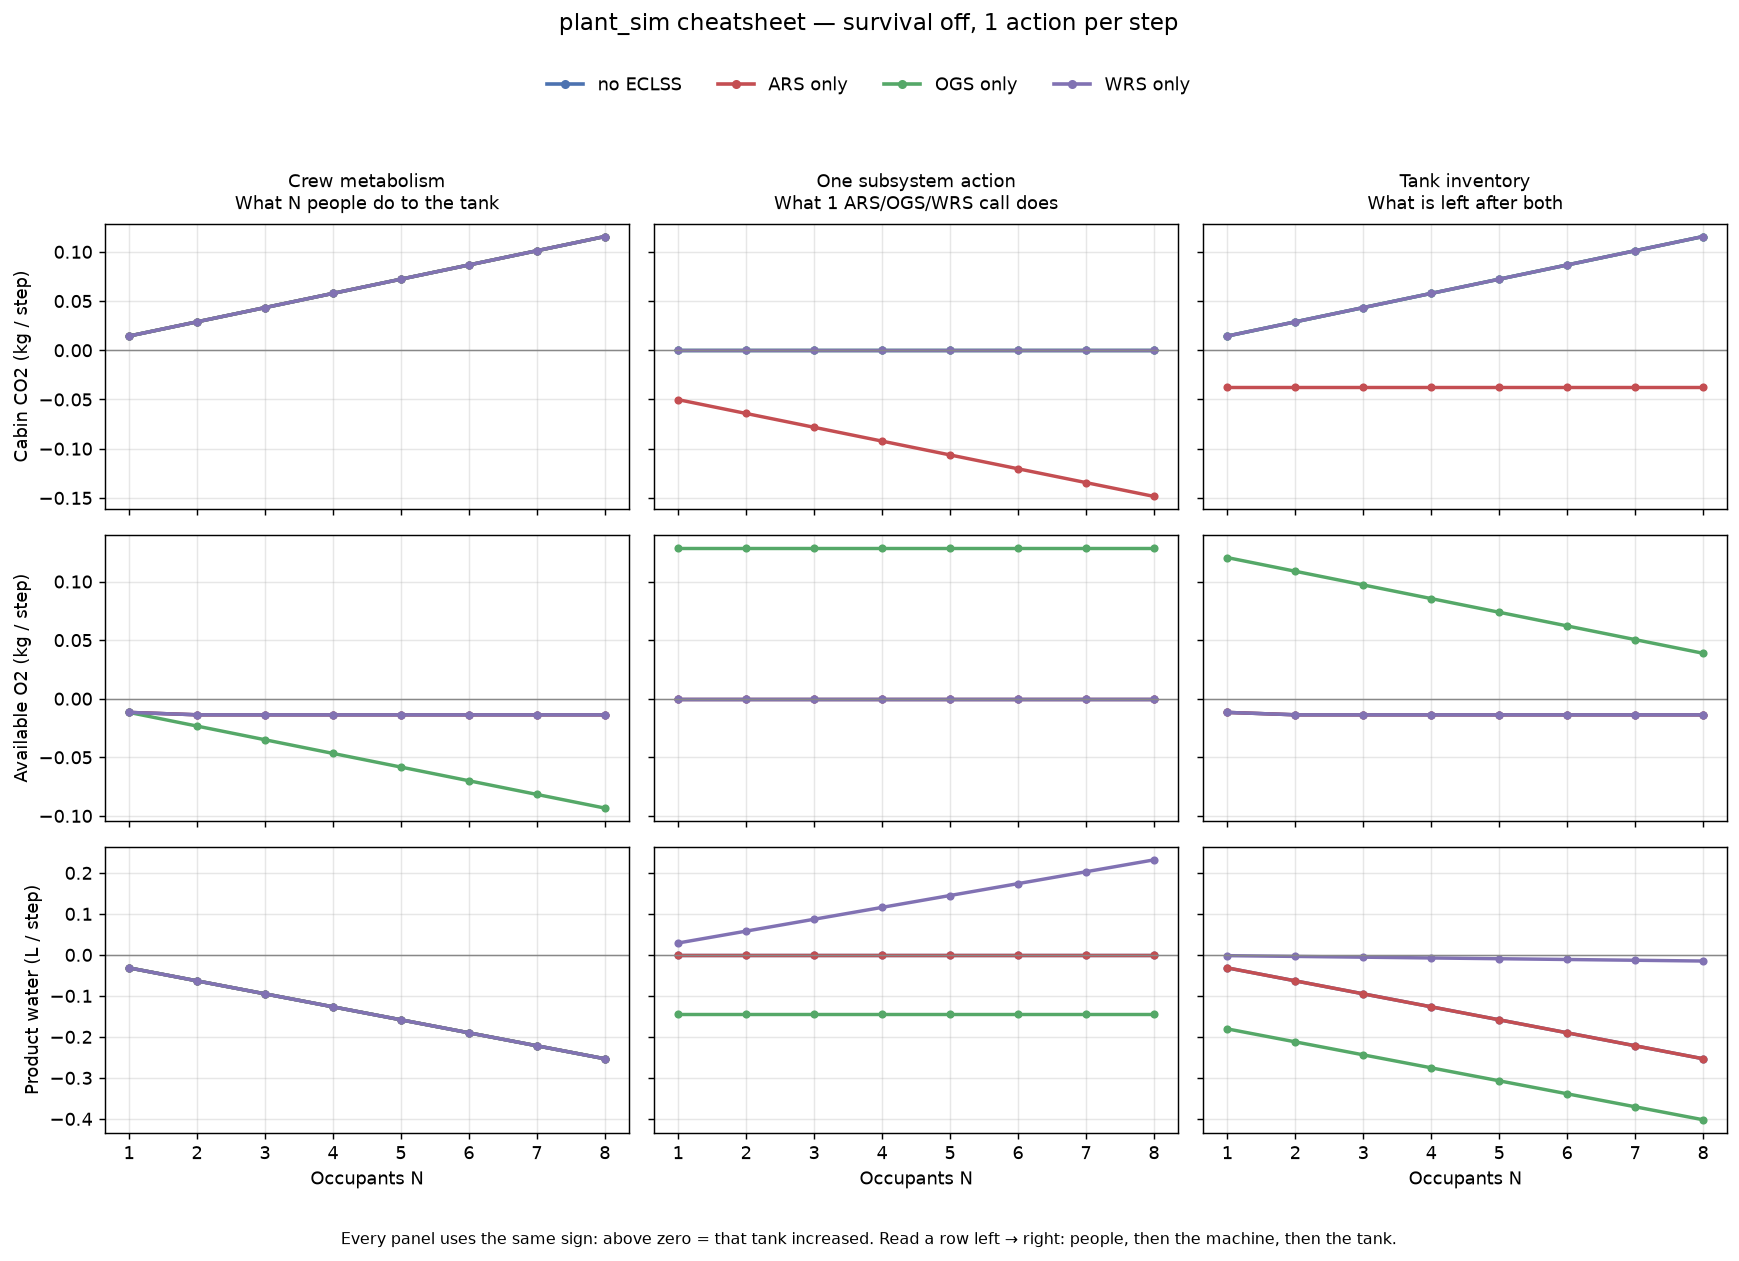
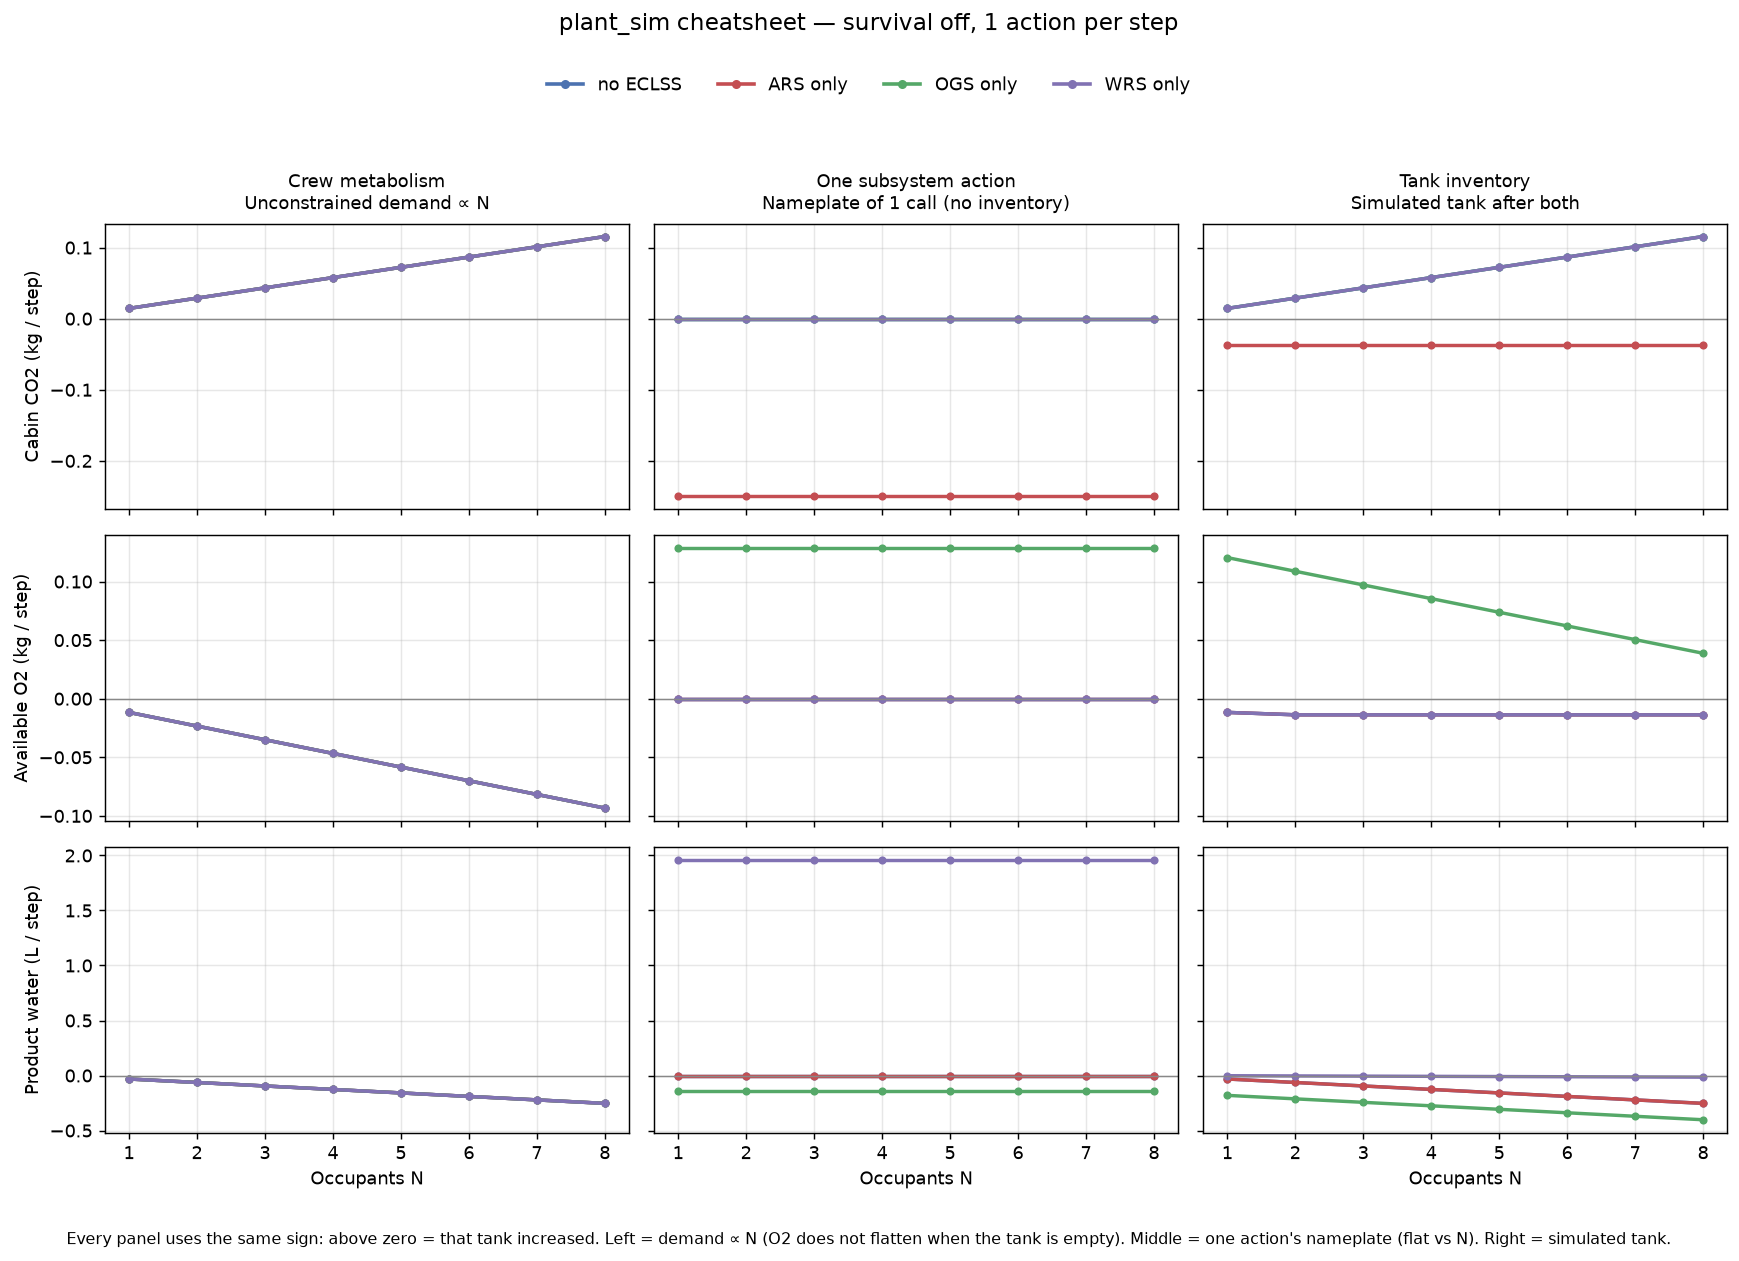
Plot cheatsheet demand ∝ N and nameplate ops independent of N.
O2 metabolism flattened for N≥2 because the 0.48 kg tank emptied;
the left column now uses unconstrained demand. The middle column uses
ARS/OGS/WRS nameplate (inventory ignored) so one action is flat vs N.
Tank-limited consumption stays in the right column.

diff --git a/src/tools/plant_sim_ops_cheatsheet.py b/src/tools/plant_sim_ops_cheatsheet.py
@@ -3,6 +3,11 @@
 This is not the Streamlit dashboard. It sweeps occupant count N with survival
 disabled so N stays an independent variable.
 
+Left column is **unconstrained demand** (∝ N), not tank-limited consumption —
+otherwise O2 metabolism flattens once the 0.48 kg tank is empty.
+Middle column is **nameplate of one action** (inventory ignored), so ARS/OGS/WRS
+are flat vs N. The right column is the simulated tank, where those limits live.
+
 Usage::
 
     python3 -m tools.plant_sim_ops_cheatsheet --n-max 8 --steps 36
@@ -21,7 +26,8 @@ import yaml
 from matplotlib.lines import Line2D
 
 from environment.ssos.eclss.plant_sim.config import PlantSimConfig
-from environment.ssos.eclss.plant_sim.model import PlantModel
+from environment.ssos.eclss.plant_sim.model import PlantModel, per_interval
+from environment.ssos.eclss.plant_sim.stoichiometry import WATER_PER_O2
 from scenario.runner import agents_config_path, scenario_config_path
 
 MODES = ("none", "ars", "ogs", "wrs")
@@ -46,6 +52,14 @@ class CheatsheetRow:
     water_metabolism_l: float
     water_ops_l: float
     water_net_l: float
+    # Per-step unconstrained demand / nameplate (not divided in per_step()).
+    co2_demand_kg: float
+    o2_demand_kg: float
+    water_demand_l: float
+    ars_nameplate_kg: float
+    ogs_nameplate_o2_kg: float
+    ogs_nameplate_water_l: float
+    wrs_nameplate_l: float
 
     def per_step(self) -> "CheatsheetRow":
         m = max(1, self.metabolism_steps)
@@ -64,6 +78,13 @@ class CheatsheetRow:
             water_metabolism_l=self.water_metabolism_l / m,
             water_ops_l=self.water_ops_l / ops,
             water_net_l=self.water_net_l / m,
+            co2_demand_kg=self.co2_demand_kg,
+            o2_demand_kg=self.o2_demand_kg,
+            water_demand_l=self.water_demand_l,
+            ars_nameplate_kg=self.ars_nameplate_kg,
+            ogs_nameplate_o2_kg=self.ogs_nameplate_o2_kg,
+            ogs_nameplate_water_l=self.ogs_nameplate_water_l,
+            wrs_nameplate_l=self.wrs_nameplate_l,
         )
 
 
@@ -75,6 +96,41 @@ def load_ssos_yaml() -> tuple[Dict[str, Any], Dict[str, Any]]:
 
 def _policy_goals(agents: Mapping[str, Any]) -> Dict[str, Any]:
     return dict((agents.get("policy") or {}))
+
+
+def metabolism_demand_per_step(n: int, plant: PlantSimConfig) -> tuple[float, float, float]:
+    """Unconstrained crew demand this interval: (o2_kg, co2_kg, water_l). ∝ N."""
+    factor = int(n) * plant.activity_factor
+    o2 = per_interval(plant.o2_kg_day_person, plant.step_seconds) * factor
+    co2 = per_interval(plant.co2_kg_day_person, plant.step_seconds) * factor
+    water = per_interval(plant.potable_water_kg_day_person, plant.step_seconds) * factor
+    return o2, co2, water
+
+
+def ars_nameplate_kg(goal_co2_mass_kg: float, plant: PlantSimConfig) -> float:
+    """One ARS action with infinite cabin CO2: capacity × goal scale. Independent of N."""
+    scale = float(goal_co2_mass_kg) / plant.ars_reference_goal_co2_kg
+    operation_capacity = per_interval(plant.ars_capacity_kg_day, plant.ars_operation_seconds)
+    return operation_capacity * scale
+
+
+def ogs_nameplate(input_water_mass_kg: float, plant: PlantSimConfig) -> tuple[float, float]:
+    """One OGS action with infinite water tank: (o2_produced_kg, water_consumed_l)."""
+    requested = float(input_water_mass_kg)
+    max_o2 = per_interval(plant.ogs_max_o2_kg_day, plant.ogs_operation_seconds)
+    max_water_by_capacity = max_o2 * WATER_PER_O2
+    processed = min(requested, max_water_by_capacity)
+    return processed / WATER_PER_O2, processed
+
+
+def wrs_nameplate_l(requested_urine_l: float, plant: PlantSimConfig) -> float:
+    """One WRS action assuming the requested urine is in the buffer. Independent of N.
+
+    Grey water is not in the WRS goal payload; it is opportunistic from inventory
+    and therefore belongs in the tank column, not the nameplate.
+    """
+    urine_feed = min(float(requested_urine_l), plant.wrs_max_feed_l_per_operation)
+    return urine_feed * plant.wrs_urine_recovery
 
 
 def run_campaign(
@@ -127,6 +183,8 @@ def run_campaign(
             result = model.run_wrs(wrs_urine)
             water_ops -= float(result.get("recovered_water_l") or 0.0)
 
+    o2_demand, co2_demand, water_demand = metabolism_demand_per_step(n, cfg)
+    ogs_o2_np, ogs_water_np = ogs_nameplate(ogs_water, cfg)
     return CheatsheetRow(
         n=n,
         mode=mode,
@@ -141,6 +199,13 @@ def run_campaign(
         water_metabolism_l=water_metab,
         water_ops_l=water_ops,
         water_net_l=model.state.product_water_l - initial_water,
+        co2_demand_kg=co2_demand,
+        o2_demand_kg=o2_demand,
+        water_demand_l=water_demand,
+        ars_nameplate_kg=ars_nameplate_kg(ars_goal, cfg),
+        ogs_nameplate_o2_kg=ogs_o2_np,
+        ogs_nameplate_water_l=ogs_water_np,
+        wrs_nameplate_l=wrs_nameplate_l(wrs_urine, cfg),
     )
 
 
@@ -188,31 +253,39 @@ _RESOURCES = (
     ("Product water (L / step)", "water"),
 )
 _COLUMNS = (
-    ("Crew metabolism", "metabolism", "What N people do to the tank"),
-    ("One subsystem action", "ops", "What 1 ARS/OGS/WRS call does"),
-    ("Tank inventory", "net", "What is left after both"),
+    ("Crew metabolism", "metabolism", "Unconstrained demand ∝ N"),
+    ("One subsystem action", "ops", "Nameplate of 1 call (no inventory)"),
+    ("Tank inventory", "net", "Simulated tank after both"),
 )
 
 
 def tank_effect(row: CheatsheetRow, resource: str, kind: str) -> float:
-    """Signed per-step effect on the named tank (+ = inventory up)."""
+    """Signed per-step effect on the named tank (+ = inventory up).
+
+    Metabolism uses unconstrained demand (not tank-limited consumption).
+    Ops uses nameplate of one action (inventory ignored). Net stays simulated.
+    """
     if resource == "co2":
         if kind == "metabolism":
-            return row.co2_metabolism_kg
+            return row.co2_demand_kg
         if kind == "ops":
-            return -row.co2_ops_kg
+            return -row.ars_nameplate_kg if row.mode == "ars" else 0.0
         return row.co2_net_kg
     if resource == "o2":
         if kind == "metabolism":
-            return -row.o2_metabolism_kg
+            return -row.o2_demand_kg
         if kind == "ops":
-            return row.o2_ops_kg
+            return row.ogs_nameplate_o2_kg if row.mode == "ogs" else 0.0
         return row.o2_net_kg
     if resource == "water":
         if kind == "metabolism":
-            return -row.water_metabolism_l
+            return -row.water_demand_l
         if kind == "ops":
-            return -row.water_ops_l
+            if row.mode == "ogs":
+                return -row.ogs_nameplate_water_l
+            if row.mode == "wrs":
+                return row.wrs_nameplate_l
+            return 0.0
         return row.water_net_l
     raise ValueError(f"unknown resource {resource!r} or kind {kind!r}")
 
@@ -262,7 +335,8 @@ def plot_cheatsheet(rows: Sequence[CheatsheetRow], png_path: Path) -> None:
         0.5,
         -0.01,
         "Every panel uses the same sign: above zero = that tank increased. "
-        "Read a row left → right: people, then the machine, then the tank.",
+        "Left = demand ∝ N (O2 does not flatten when the tank is empty). "
+        "Middle = one action's nameplate (flat vs N). Right = simulated tank.",
         ha="center",
         fontsize=9,
     )

diff --git a/tests/tools/test_plant_sim_ops_cheatsheet.py b/tests/tools/test_plant_sim_ops_cheatsheet.py
@@ -4,18 +4,92 @@ from __future__ import annotations
 
 import pytest
 
-from tools.plant_sim_ops_cheatsheet import CheatsheetRow, plot_cheatsheet, sweep, tank_effect
+from environment.ssos.eclss.plant_sim.config import PlantSimConfig
+from tools.plant_sim_ops_cheatsheet import (
+    CheatsheetRow,
+    ars_nameplate_kg,
+    metabolism_demand_per_step,
+    ogs_nameplate,
+    plot_cheatsheet,
+    sweep,
+    tank_effect,
+    wrs_nameplate_l,
+)
+
+_ROW_DEFAULTS = dict(
+    n=1,
+    mode="none",
+    steps=4,
+    metabolism_steps=3,
+    co2_metabolism_kg=0.1,
+    co2_ops_kg=0.0,
+    co2_net_kg=0.1,
+    o2_metabolism_kg=0.05,
+    o2_ops_kg=0.0,
+    o2_net_kg=-0.05,
+    water_metabolism_l=0.2,
+    water_ops_l=0.0,
+    water_net_l=-0.2,
+    co2_demand_kg=0.1,
+    o2_demand_kg=0.05,
+    water_demand_l=0.2,
+    ars_nameplate_kg=0.25,
+    ogs_nameplate_o2_kg=0.12,
+    ogs_nameplate_water_l=0.14,
+    wrs_nameplate_l=1.96,
+)
 
 
-def test_cheatsheet_none_metabolism_scales_with_n():
+def test_metabolism_demand_scales_with_n():
+    plant = PlantSimConfig()
+    o2_1, co2_1, water_1 = metabolism_demand_per_step(1, plant)
+    o2_4, co2_4, water_4 = metabolism_demand_per_step(4, plant)
+    assert o2_4 == pytest.approx(4 * o2_1)
+    assert co2_4 == pytest.approx(4 * co2_1)
+    assert water_4 == pytest.approx(4 * water_1)
+
+
+def test_nameplates_are_positive_machine_ratings():
+    plant = PlantSimConfig()
+    o2, water = ogs_nameplate(0.15, plant)
+    assert ars_nameplate_kg(1.8, plant) > 0.0
+    assert o2 > 0.0
+    assert water > 0.0
+    assert wrs_nameplate_l(2.0, plant) > 0.0
+    # Doubling the goal scales ARS; crew count is not an input.
+    assert ars_nameplate_kg(3.6, plant) == pytest.approx(2 * ars_nameplate_kg(1.8, plant))
+
+
+def test_cheatsheet_demand_scales_and_ops_flat_vs_n():
     rows = sweep(n_max=3, steps=5)
     none_rows = {row.n: row for row in rows if row.mode == "none"}
+    ars_rows = {row.n: row for row in rows if row.mode == "ars"}
+    ogs_rows = {row.n: row for row in rows if row.mode == "ogs"}
+    wrs_rows = {row.n: row for row in rows if row.mode == "wrs"}
+
     one = none_rows[1].per_step()
     three = none_rows[3].per_step()
-    assert three.o2_metabolism_kg == pytest.approx(3 * one.o2_metabolism_kg, rel=1e-6)
-    assert three.co2_metabolism_kg == pytest.approx(3 * one.co2_metabolism_kg, rel=1e-6)
+    assert three.o2_demand_kg == pytest.approx(3 * one.o2_demand_kg, rel=1e-6)
+    assert three.co2_demand_kg == pytest.approx(3 * one.co2_demand_kg, rel=1e-6)
+    assert three.water_demand_l == pytest.approx(3 * one.water_demand_l, rel=1e-6)
     assert three.co2_ops_kg == 0.0
     assert three.o2_ops_kg == 0.0
+
+    assert tank_effect(three, "o2", "metabolism") == pytest.approx(
+        3 * tank_effect(one, "o2", "metabolism")
+    )
+    assert ars_rows[3].ars_nameplate_kg == pytest.approx(ars_rows[1].ars_nameplate_kg)
+    assert ogs_rows[3].ogs_nameplate_o2_kg == pytest.approx(ogs_rows[1].ogs_nameplate_o2_kg)
+    assert wrs_rows[3].wrs_nameplate_l == pytest.approx(wrs_rows[1].wrs_nameplate_l)
+    assert tank_effect(ars_rows[3].per_step(), "co2", "ops") == pytest.approx(
+        tank_effect(ars_rows[1].per_step(), "co2", "ops")
+    )
+    assert tank_effect(ogs_rows[3].per_step(), "o2", "ops") == pytest.approx(
+        tank_effect(ogs_rows[1].per_step(), "o2", "ops")
+    )
+    assert tank_effect(wrs_rows[3].per_step(), "water", "ops") == pytest.approx(
+        tank_effect(wrs_rows[1].per_step(), "water", "ops")
+    )
 
 
 def test_cheatsheet_ars_reduces_cabin_co2_vs_none():
@@ -54,23 +128,7 @@ def test_tank_effect_uses_inventory_sign():
 
 
 def test_cheatsheet_plot_writes_png(tmp_path):
-    rows = [
-        CheatsheetRow(
-            n=1,
-            mode="none",
-            steps=4,
-            metabolism_steps=3,
-            co2_metabolism_kg=0.1,
-            co2_ops_kg=0.0,
-            co2_net_kg=0.1,
-            o2_metabolism_kg=0.05,
-            o2_ops_kg=0.0,
-            o2_net_kg=-0.05,
-            water_metabolism_l=0.2,
-            water_ops_l=0.0,
-            water_net_l=-0.2,
-        )
-    ]
+    rows = [CheatsheetRow(**_ROW_DEFAULTS)]
     png = tmp_path / "ops_cheatsheet.png"
     plot_cheatsheet(rows, png)
     assert png.exists()

diff --git a/docs/en/memo/ssos_eclss_loop/plant_sim_backend.md b/docs/en/memo/ssos_eclss_loop/plant_sim_backend.md
@@ -215,7 +215,13 @@ Not the dashboard. Sweep N with survival off and one ARS/OGS/WRS action per step
 python3 -m tools.plant_sim_ops_cheatsheet --n-max 8 --steps 36
 ```
 
-Writes a 3×3 figure ([figures/ops_cheatsheet.png](figures/ops_cheatsheet.png)): rows are cabin CO2 / O2 / water, columns are crew metabolism / one subsystem action / tank inventory. Every panel uses the same sign (**+ = that tank increased**). Color is the campaign (`no ECLSS`, ARS only, OGS only, WRS only). CSV keeps unsigned flow totals for reproduction.
+Writes a 3×3 figure ([figures/ops_cheatsheet.png](figures/ops_cheatsheet.png)): rows are cabin CO2 / O2 / water. Columns:
+
+- **Crew metabolism** — unconstrained demand (∝ N). Not tank-limited consumption; otherwise O2 flattens once the 0.48 kg tank is empty.
+- **One subsystem action** — nameplate of one ARS/OGS/WRS call with inventory ignored, so the lines are flat vs N.
+- **Tank inventory** — simulated tank after both, where O2 starvation and crew-limited WRS feed live.
+
+Every panel uses the same sign (**+ = that tank increased**). Color is the campaign (`no ECLSS`, ARS only, OGS only, WRS only). CSV keeps unsigned flow totals plus demand/nameplate for reproduction.
 
 ![ops cheatsheet](figures/ops_cheatsheet.png)
 
